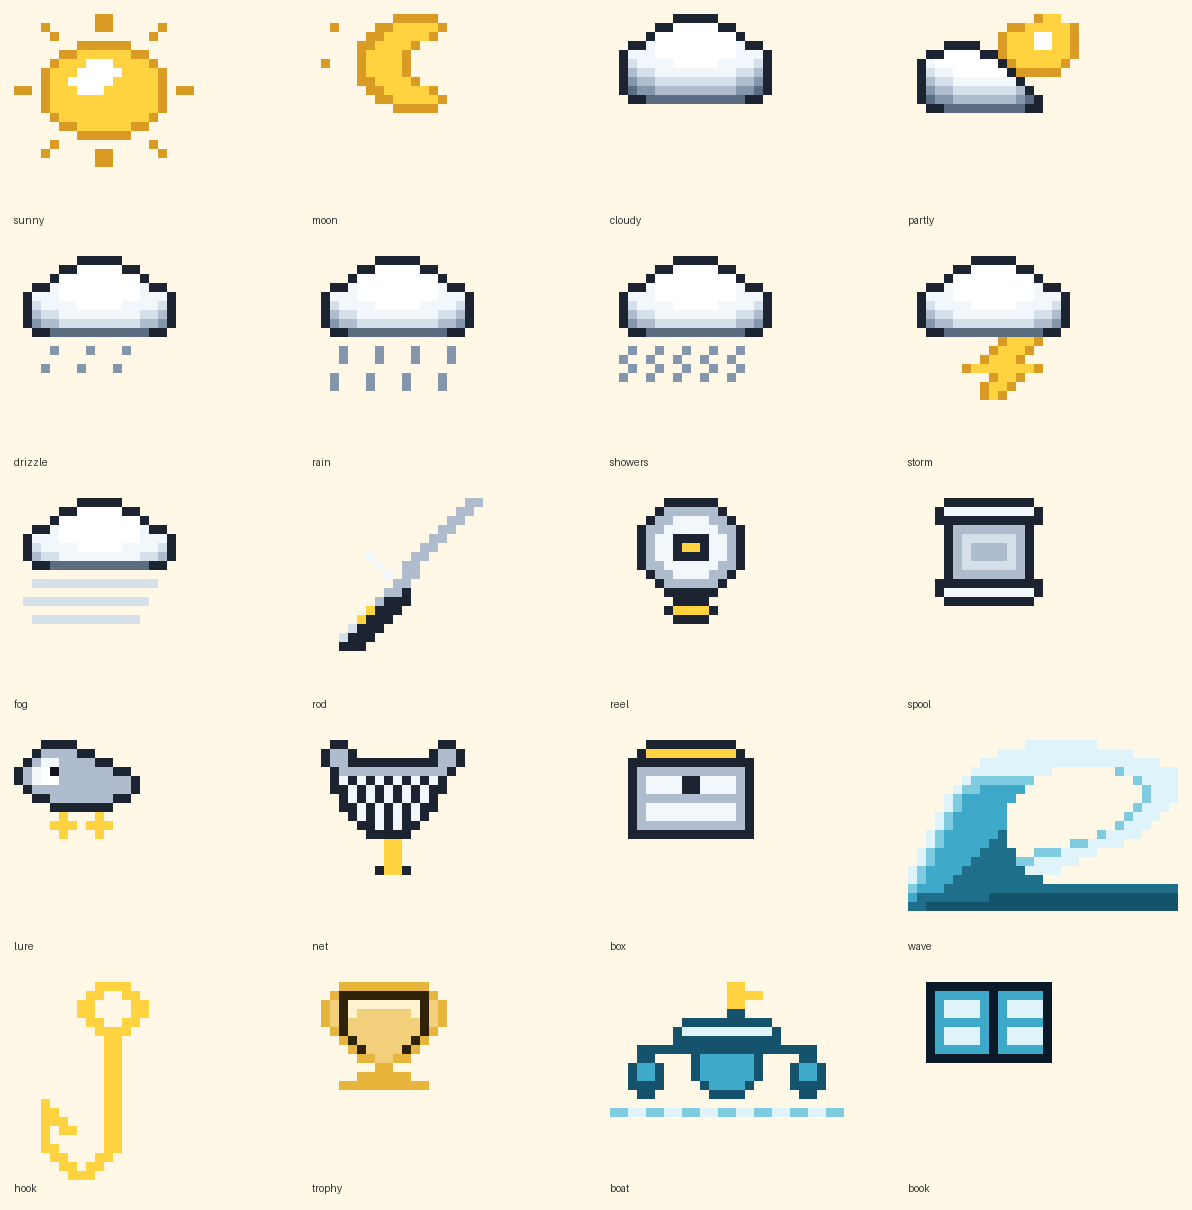
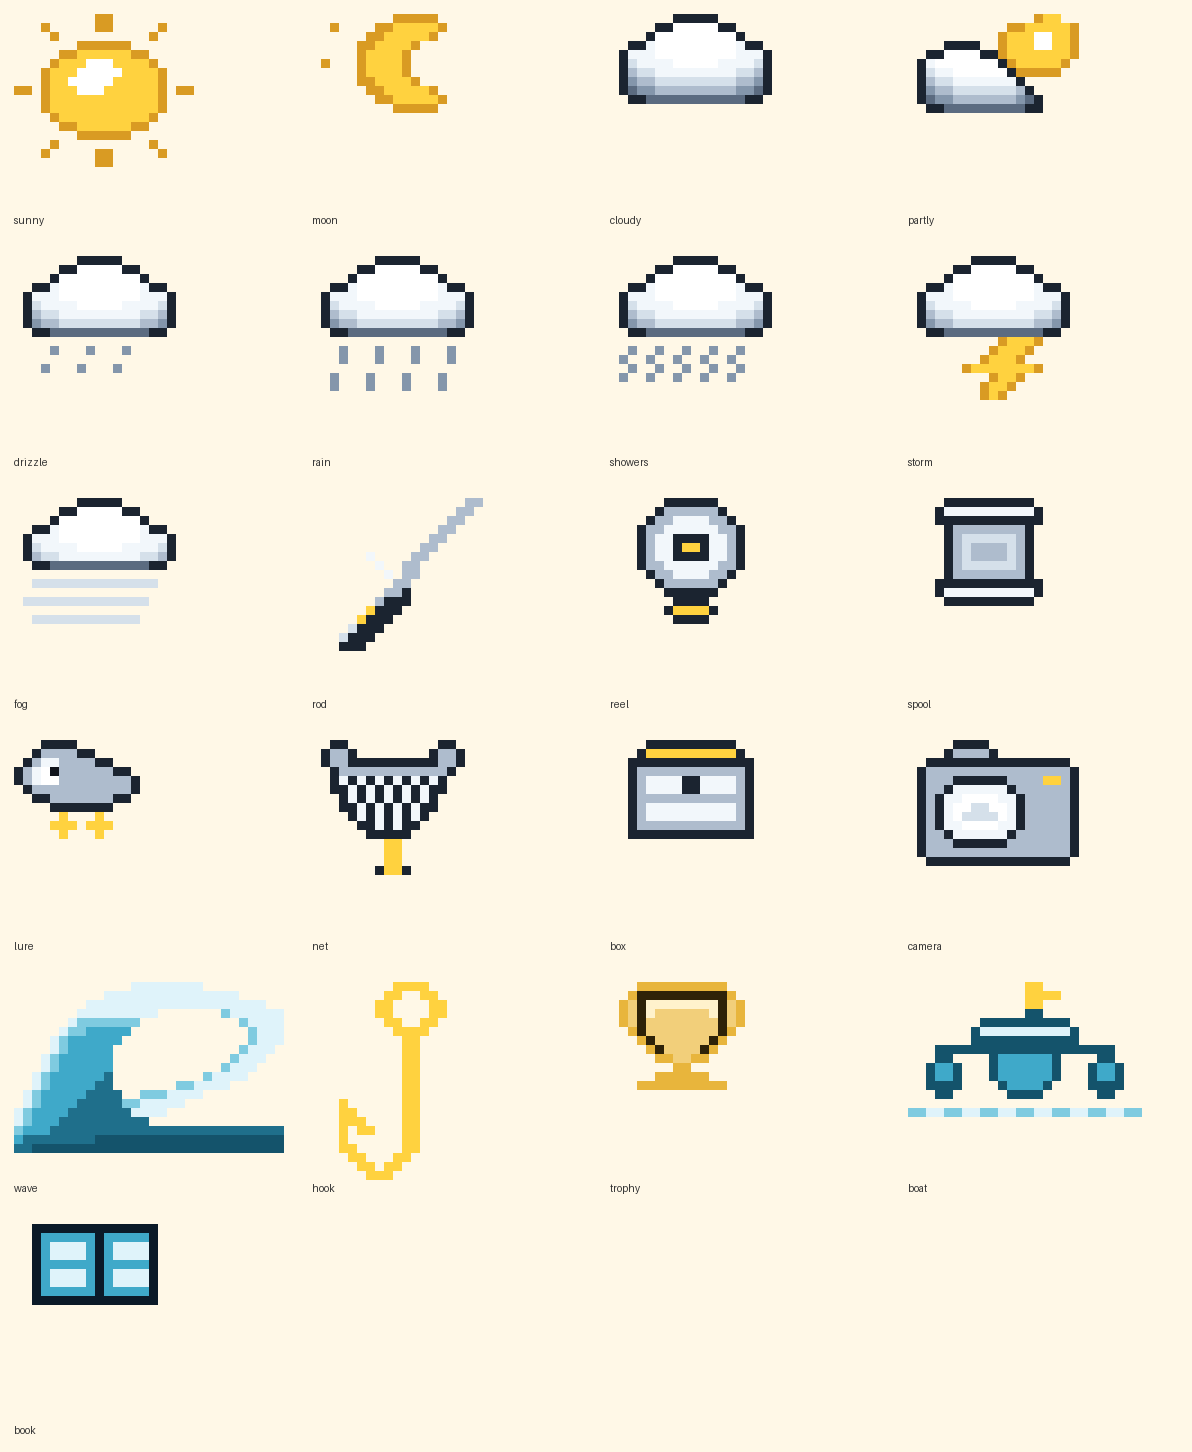
Add camera button for fish ID

diff --git a/js/pages/identify.js b/js/pages/identify.js
@@ -1,0 +1,144 @@
+// ---------------------------------------------------------------------------
+// IDENTIFY — photograph a fish, find out what it is.
+//
+// CAPTURE A STILL, don't run live detection. Deliberate, for four reasons:
+//
+//   1. A fish in a bucket or on the line is not moving. There is no moment to
+//      catch, so per-frame inference buys nothing.
+//   2. Live detection means a model running in the browser. The general-purpose
+//      ones classify ImageNet categories — "coho salmon", "tench" — which is
+//      useless for Indo-Pacific reef fish, and a model that isn't useless is
+//      too large to ship to a phone on a boat.
+//   3. It would eat the battery on the one device that has to last the trip.
+//   4. A still can be taken now and identified later. That matters more than
+//      anything else here: this app is used where there is no signal, and a
+//      photo waits patiently for one.
+//
+// `capture="environment"` opens the rear camera directly on a phone, so the
+// capture-a-still flow costs the user nothing versus a live viewfinder, while
+// still allowing an existing photo to be picked on a desktop.
+//
+// The identification step is NOT built yet — see the notice this page renders.
+// Everything up to and including the photo is real, because that half is the
+// same whichever service ends up doing the recognising.
+// ---------------------------------------------------------------------------
+
+import { prepareMedia, LIMITS, fmtMB } from '../media.js';
+import { icon } from '../pixel.js';
+import { esc, toast } from '../ui.js';
+
+export function render() {
+  return `
+    <section class="band band--sky">
+      <div class="wrap">
+        <p class="eyebrow">Species recognition</p>
+        <h1 class="display">What did I catch?</h1>
+        <p class="subtitle">
+          Take a photo of the fish and get a name for it — with the local names
+          people here actually use.
+        </p>
+      </div>
+    </section>
+
+    <section class="band band--cream">
+      <div class="wrap">
+        <div class="card identify">
+          <div class="identify__shot" id="shot">
+            ${icon('camera', { size: 120, palette: 'slate' })}
+            <p class="card__sub">No photo yet</p>
+          </div>
+
+          <input type="file" id="fishPhoto" accept="image/*" capture="environment" hidden>
+          <div class="btn-row">
+            <button class="btn btn--primary" id="takePhoto">Take a photo</button>
+            <button class="btn btn--sm" id="clearPhoto" hidden>Clear</button>
+          </div>
+          <p class="field__hint">
+            Fill the frame with the fish, side-on, against a plain background if
+            you can. Photos up to ${esc(fmtMB(LIMITS.imageBytes))}.
+          </p>
+
+          <div id="identifyResult"></div>
+        </div>
+      </div>
+    </section>`;
+}
+
+export function mount(root) {
+  const input = root.querySelector('#fishPhoto');
+  const shot = root.querySelector('#shot');
+  const take = root.querySelector('#takePhoto');
+  const clear = root.querySelector('#clearPhoto');
+  const result = root.querySelector('#identifyResult');
+
+  let objectUrl = null;
+
+  const release = () => {
+    if (objectUrl) URL.revokeObjectURL(objectUrl);
+    objectUrl = null;
+  };
+
+  function reset() {
+    release();
+    shot.innerHTML = `${icon('camera', { size: 120, palette: 'slate' })}<p class="card__sub">No photo yet</p>`;
+    result.innerHTML = '';
+    clear.hidden = true;
+    input.value = '';
+  }
+
+  take.addEventListener('click', () => input.click());
+  clear.addEventListener('click', reset);
+
+  input.addEventListener('change', async () => {
+    const file = input.files?.[0];
+    if (!file) return;
+
+    take.disabled = true;
+    take.textContent = 'Preparing…';
+
+    try {
+      // Same pipeline the catch log uses — downscales and re-encodes, so a
+      // 12 MP phone photo becomes something an API call can actually carry.
+      const media = await prepareMedia(file);
+      release();
+      objectUrl = URL.createObjectURL(media.blob);
+
+      shot.innerHTML = `<img src="${objectUrl}" alt="The fish you photographed">`;
+      clear.hidden = false;
+      result.innerHTML = pendingHtml();
+    } catch (err) {
+      console.error('[identify]', err);
+      toast(err.message || 'Could not read that photo');
+      reset();
+    } finally {
+      take.disabled = false;
+      take.textContent = 'Take a photo';
+    }
+  });
+
+  window.addEventListener('hashchange', release, { once: true });
+}
+
+/**
+ * What the user sees once a photo is ready.
+ *
+ * Says plainly that recognition isn't wired up yet rather than spinning
+ * forever or inventing an answer — a screen that pretends to identify a fish
+ * and doesn't is worse than one that admits it can't.
+ */
+function pendingHtml() {
+  return `
+    <div class="notice notice--warn" style="margin-top:18px">
+      <h3>Recognition isn't connected yet</h3>
+      <p>
+        The photo is ready and the camera half works. What's missing is the
+        service that looks at it — that's the next piece of work, and it needs
+        a key kept off this device.
+      </p>
+      <p style="margin-bottom:0">
+        In the meantime you can search by eye in
+        <a href="#/info">Info &rsaquo; Fishes</a>, or attach this photo to a
+        catch in <a href="#/log">the log</a>.
+      </p>
+    </div>`;
+}

diff --git a/css/style.css b/css/style.css
@@ -652,6 +652,25 @@ input[type="file"] { font-family: inherit; font-size: 13px; font-weight: 700; }
 .tip-card { border-left: 10px solid var(--yellow); }
 .tip-card--general { border-left-color: var(--sky-deep); }
 
+/* --- identify ------------------------------------------------------------ */
+
+.identify__shot {
+  background: var(--art-bg);
+  border: var(--border-w) solid var(--line);
+  border-radius: var(--radius-sm);
+  min-height: 220px;
+  display: grid; place-items: center; gap: 10px;
+  padding: 18px;
+  overflow: hidden;
+}
+.identify__shot svg { width: auto; height: 120px; }
+/* The photo replaces the placeholder entirely, so it owns the whole box. */
+.identify__shot img {
+  width: 100%; max-height: 420px;
+  object-fit: contain;
+  border-radius: calc(var(--radius-sm) - 4px);
+}
+
 /* --- sync & connected accounts ------------------------------------------- */
 
 /* One line under the log heading. Quiet by default — it only earns attention

diff --git a/js/pages/home.js b/js/pages/home.js
@@ -50,6 +50,17 @@ export function render(ctx) {
             </div>
             <span class="btn btn--sm btn--primary" style="align-self:flex-start">Add entry</span>
           </a>
+
+          <a class="card" href="#/identify">
+            <div class="row-between">
+              <div>
+                <h2 class="card__title">What did I catch?</h2>
+                <p class="card__sub">Photograph a fish to identify it</p>
+              </div>
+              ${icon('camera', { size: 76, palette: 'slate' })}
+            </div>
+            <span class="btn btn--sm btn--primary" style="align-self:flex-start">Open camera</span>
+          </a>
         </div>
       </div>
     </section>

diff --git a/js/pixel.js b/js/pixel.js
@@ -452,6 +452,22 @@ export const ICONS = {
     '..OBBBBBBBBBBBBO....',
     '..OOOOOOOOOOOOOO....',
   ],
+  camera: [
+    '.....OOOO...........',
+    '....OBBBBO..........',
+    '..OOOOOOOOOOOOOOOO..',
+    '.OBBBBBBBBBBBBBBBBO.',
+    '.OBBBOOOOOOBBBBAABO.',
+    '.OBBOLLLLLLOBBBBBBO.',
+    '.OBOLLHHHHLLOBBBBBO.',
+    '.OBOLHHMMHHLOBBBBBO.',
+    '.OBOLHMMMMHLOBBBBBO.',
+    '.OBOLLHHHHLLOBBBBBO.',
+    '.OBBOLLLLLLOBBBBBBO.',
+    '.OBBBOOOOOOBBBBBBBO.',
+    '.OBBBBBBBBBBBBBBBBO.',
+    '..OOOOOOOOOOOOOOOO..',
+  ],
   wave: [
     '.............LLLLLLLL.........',
     '..........LLLLLLLLLLLLLLL.....',

diff --git a/js/app.js b/js/app.js
@@ -19,6 +19,7 @@ import * as mapPage from './pages/map.js';
 import * as conditions from './pages/conditions.js';
 import * as log from './pages/log.js';
 import * as info from './pages/info.js';
+import * as identify from './pages/identify.js';
 import * as settings from './pages/settings.js';
 
 // Untracked local keys first, then anything entered in Settings wins.
@@ -36,6 +37,7 @@ const ROUTES = [
   { path: '/conditions', page: conditions },
   { path: '/log', page: log },
   { path: '/info', page: info },
+  { path: '/identify', page: identify },
   { path: '/settings', page: settings },
 ];
 

diff --git a/tools/icons.generated.js b/tools/icons.generated.js
@@ -229,6 +229,22 @@
     '..OBBBBBBBBBBBBO....',
     '..OOOOOOOOOOOOOO....',
   ],
+  camera: [
+    '.....OOOO...........',
+    '....OBBBBO..........',
+    '..OOOOOOOOOOOOOOOO..',
+    '.OBBBBBBBBBBBBBBBBO.',
+    '.OBBBOOOOOOBBBBAABO.',
+    '.OBBOLLLLLLOBBBBBBO.',
+    '.OBOLLHHHHLLOBBBBBO.',
+    '.OBOLHHMMHHLOBBBBBO.',
+    '.OBOLHMMMMHLOBBBBBO.',
+    '.OBOLLHHHHLLOBBBBBO.',
+    '.OBBOLLLLLLOBBBBBBO.',
+    '.OBBBOOOOOOBBBBBBBO.',
+    '.OBBBBBBBBBBBBBBBBO.',
+    '..OOOOOOOOOOOOOOOO..',
+  ],
   wave: [
     '.............LLLLLLLL.........',
     '..........LLLLLLLLLLLLLLL.....',

diff --git a/sw.js b/sw.js
@@ -15,7 +15,7 @@
 // CACHE_VERSION now only needs bumping to force-evict old assets.
 // ---------------------------------------------------------------------------
 
-const CACHE_VERSION = 'v5';
+const CACHE_VERSION = 'v6';
 const CACHE_NAME = `angler-log-${CACHE_VERSION}`;
 
 const SHELL = [
@@ -53,6 +53,7 @@ const SHELL = [
   './js/api/place.js',
   './js/pages/home.js',
   './js/pages/info.js',
+  './js/pages/identify.js',
   './js/pages/map.js',
   './vendor/leaflet/leaflet.js',
   './vendor/leaflet/leaflet.css',

diff --git a/tools/browser_test.py b/tools/browser_test.py
@@ -700,7 +700,13 @@ async def main():
 
             stored = await page.eval("""
                 const raw = localStorage.getItem('angler.users');
-                return { plaintext: raw.includes('abcd'), hashed: /"hash":"[0-9a-f]{64}"/.test(raw),
+                // Check FIELD VALUES, not the raw blob. 'abcd' is four hex
+                // characters, so scanning the whole string finds it inside a
+                // random salt or SHA-256 digest every so often — a false
+                // failure on a security assertion, which is the worst kind.
+                const plaintext = JSON.parse(raw).some(
+                    (u) => Object.values(u).some((v) => v === 'abcd'));
+                return { plaintext, hashed: /"hash":"[0-9a-f]{64}"/.test(raw),
                          salted: /"salt":"[0-9a-f]{32}"/.test(raw) };
             """)
             check("passwords are not stored in plain text", not stored["plaintext"], str(stored))
@@ -1082,9 +1088,87 @@ async def main():
                   status["state"] == "local" and "device" in status["text"].lower(),
                   str(status))
 
+            # -------------------------------------------------- identify
+            print("\nIdentify")
+            await page.goto(f"{BASE}/index.html#/identify")
+            await page.wait_for("document.querySelector('#takePhoto')", label="identify screen")
+
+            cam = await page.eval("""
+                const input = document.getElementById('fishPhoto');
+                const homeLink = () => {
+                    location.hash = '#/';
+                    return new Promise(r => setTimeout(() => r(
+                        document.querySelector('a.card[href="#/identify"]')), 700));
+                };
+                const card = await homeLink();
+                location.hash = '#/identify';
+                await new Promise(r => setTimeout(r, 700));
+
+                return {
+                    onHome: !!card,
+                    homeIcon: !!card && !!card.querySelector('svg'),
+                    // capture="environment" is what opens the rear camera
+                    // directly instead of a file browser on a phone.
+                    capture: input?.getAttribute('capture'),
+                    accept: input?.getAttribute('accept'),
+                    hiddenInput: input?.hidden === true,
+                    hasButton: !!document.getElementById('takePhoto'),
+                    // Nothing should claim to have identified anything yet.
+                    noFakeResult: document.getElementById('identifyResult')
+                        ?.textContent.trim() === '',
+                };
+            """)
+            check("home offers the camera", cam["onHome"] and cam["homeIcon"], str(cam))
+            check("the camera opens straight to the rear lens",
+                  cam["capture"] == "environment", str(cam))
+            check("it accepts any image", cam["accept"] == "image/*", str(cam))
+            check("the file input is hidden behind a real button",
+                  cam["hiddenInput"] and cam["hasButton"], str(cam))
+            check("no result is shown before a photo exists",
+                  cam["noFakeResult"], str(cam))
+
+            # A photo must produce a preview and an honest "not wired up" notice
+            # rather than a spinner that never resolves.
+            shot = await page.eval("""
+                const canvas = document.createElement('canvas');
+                canvas.width = 64; canvas.height = 48;
+                const g = canvas.getContext('2d');
+                g.fillStyle = '#3FA9C9'; g.fillRect(0, 0, 64, 48);
+                const blob = await new Promise(r => canvas.toBlob(r, 'image/png'));
+
+                const input = document.getElementById('fishPhoto');
+                const dt = new DataTransfer();
+                dt.items.add(new File([blob], 'fish.png', { type: 'image/png' }));
+                input.files = dt.files;
+                input.dispatchEvent(new Event('change', { bubbles: true }));
+                await new Promise(r => setTimeout(r, 1500));
+
+                const result = document.getElementById('identifyResult');
+                return {
+                    preview: !!document.querySelector('#shot img'),
+                    altText: document.querySelector('#shot img')?.alt || '',
+                    clearShown: document.getElementById('clearPhoto')?.hidden === false,
+                    saysNotReady: /isn.t connected yet/i.test(result?.textContent || ''),
+                    offersAlternative: !!result?.querySelector('a[href="#/info"]'),
+                    buttonRestored: document.getElementById('takePhoto').textContent
+                        .includes('Take a photo'),
+                };
+            """)
+            check("a photo shows a preview", shot["preview"], str(shot))
+            check("the preview is described for screen readers",
+                  bool(shot["altText"]), str(shot))
+            check("the photo can be cleared", shot["clearShown"], str(shot))
+            # Honesty check: the screen must not imply it identified anything.
+            check("it says recognition is not connected yet",
+                  shot["saysNotReady"], str(shot))
+            check("and points somewhere useful instead",
+                  shot["offersAlternative"], str(shot))
+            check("the button recovers after preparing", shot["buttonRestored"], str(shot))
+
             # -------------------------------------------------- routes
             routes = {
                 "home": ("#/", ".kpi__v, .empty"),
+                "identify": ("#/identify", "#takePhoto"),
                 "info-fishes": ("#/info", ".species-card"),
                 "info-gear": ("#/info?tab=gear", ".gear-card"),
                 "info-zones": ("#/info?tab=zones", ".zone-card"),

diff --git a/tools/author_sprites.py b/tools/author_sprites.py
@@ -717,6 +717,25 @@ ICONS = {
 '  OOOOOOOOOOOOOO    ',
 ],
 
+# Body in B so it recolours per palette; the lens is the only fixed-value
+# part, because a lens that changes colour stops reading as glass.
+'camera': [
+'     OOOO           ',
+'    OBBBBO          ',
+'  OOOOOOOOOOOOOOOO  ',
+' OBBBBBBBBBBBBBBBBO ',
+' OBBBOOOOOOBBBBAABO ',
+' OBBOLLLLLLOBBBBBBO ',
+' OBOLLHHHHLLOBBBBBO ',
+' OBOLHHMMHHLOBBBBBO ',
+' OBOLHMMMMHLOBBBBBO ',
+' OBOLLHHHHLLOBBBBBO ',
+' OBBOLLLLLLOBBBBBBO ',
+' OBBBOOOOOOBBBBBBBO ',
+' OBBBBBBBBBBBBBBBBO ',
+'  OOOOOOOOOOOOOOOO  ',
+],
+
 'wave': [
 '',
 '             LLLLLLLL',
